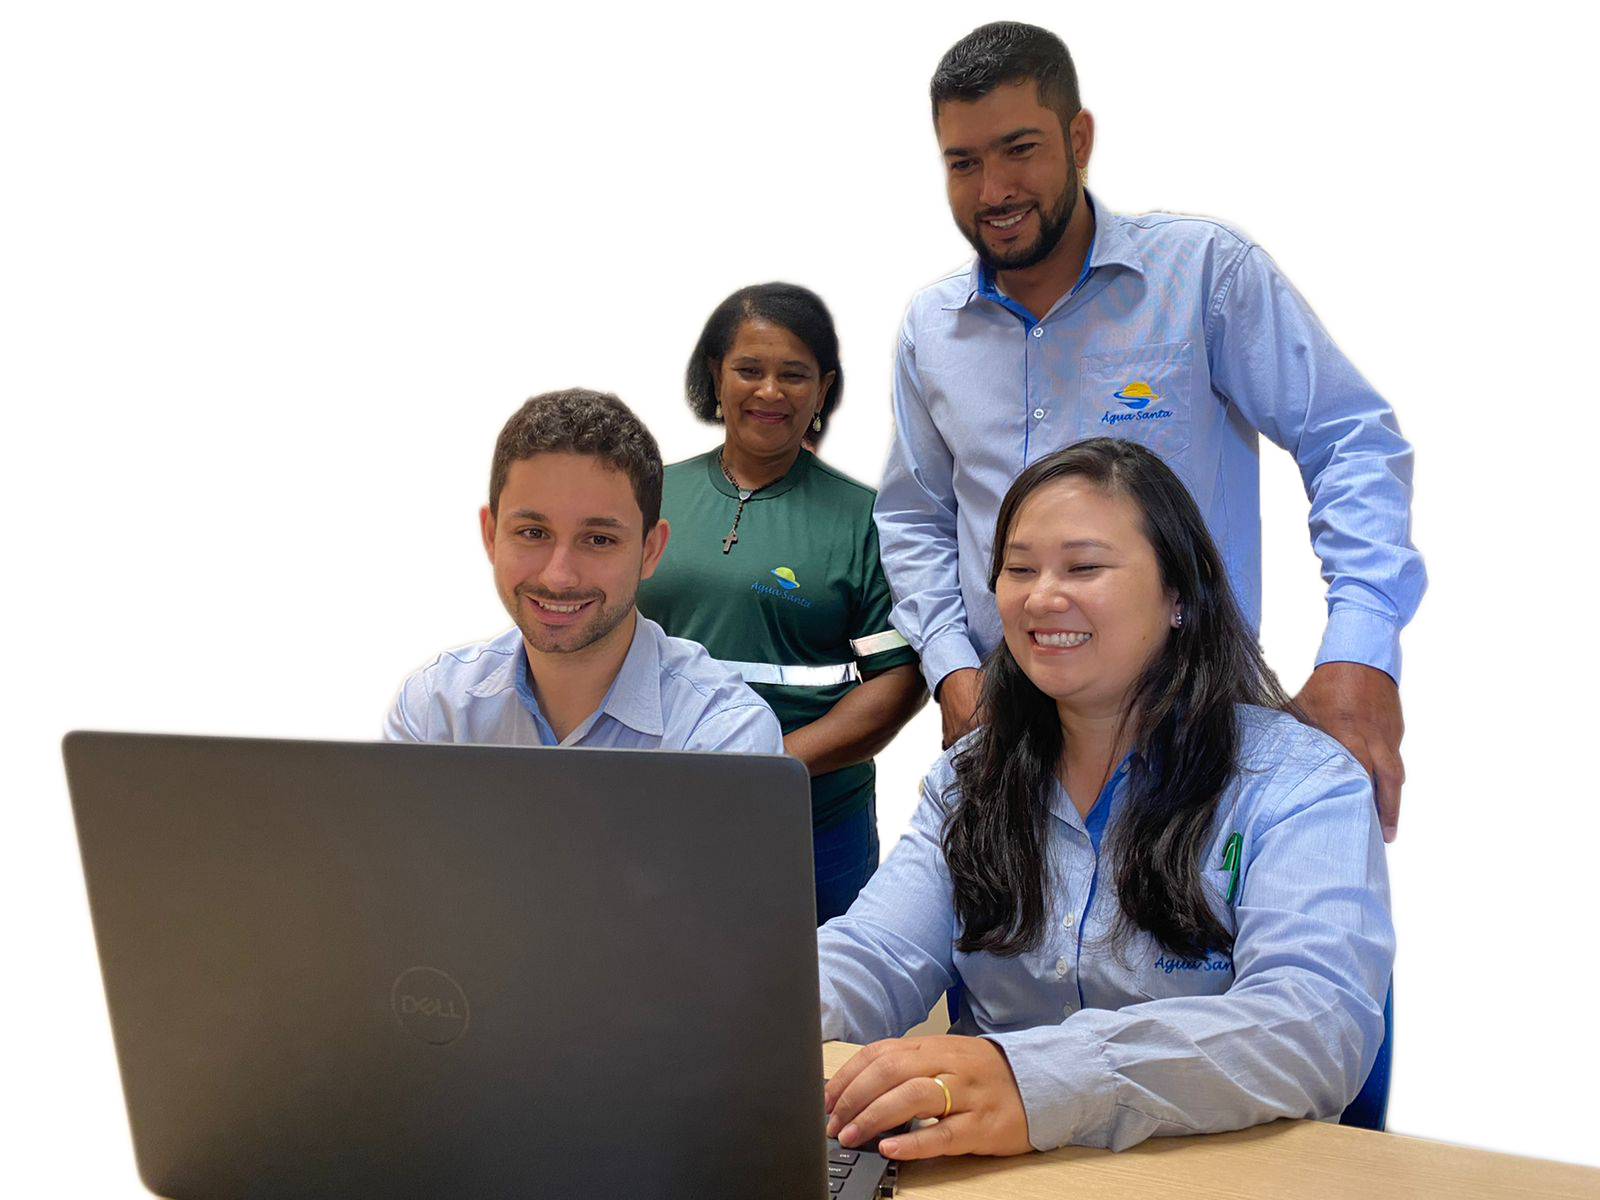
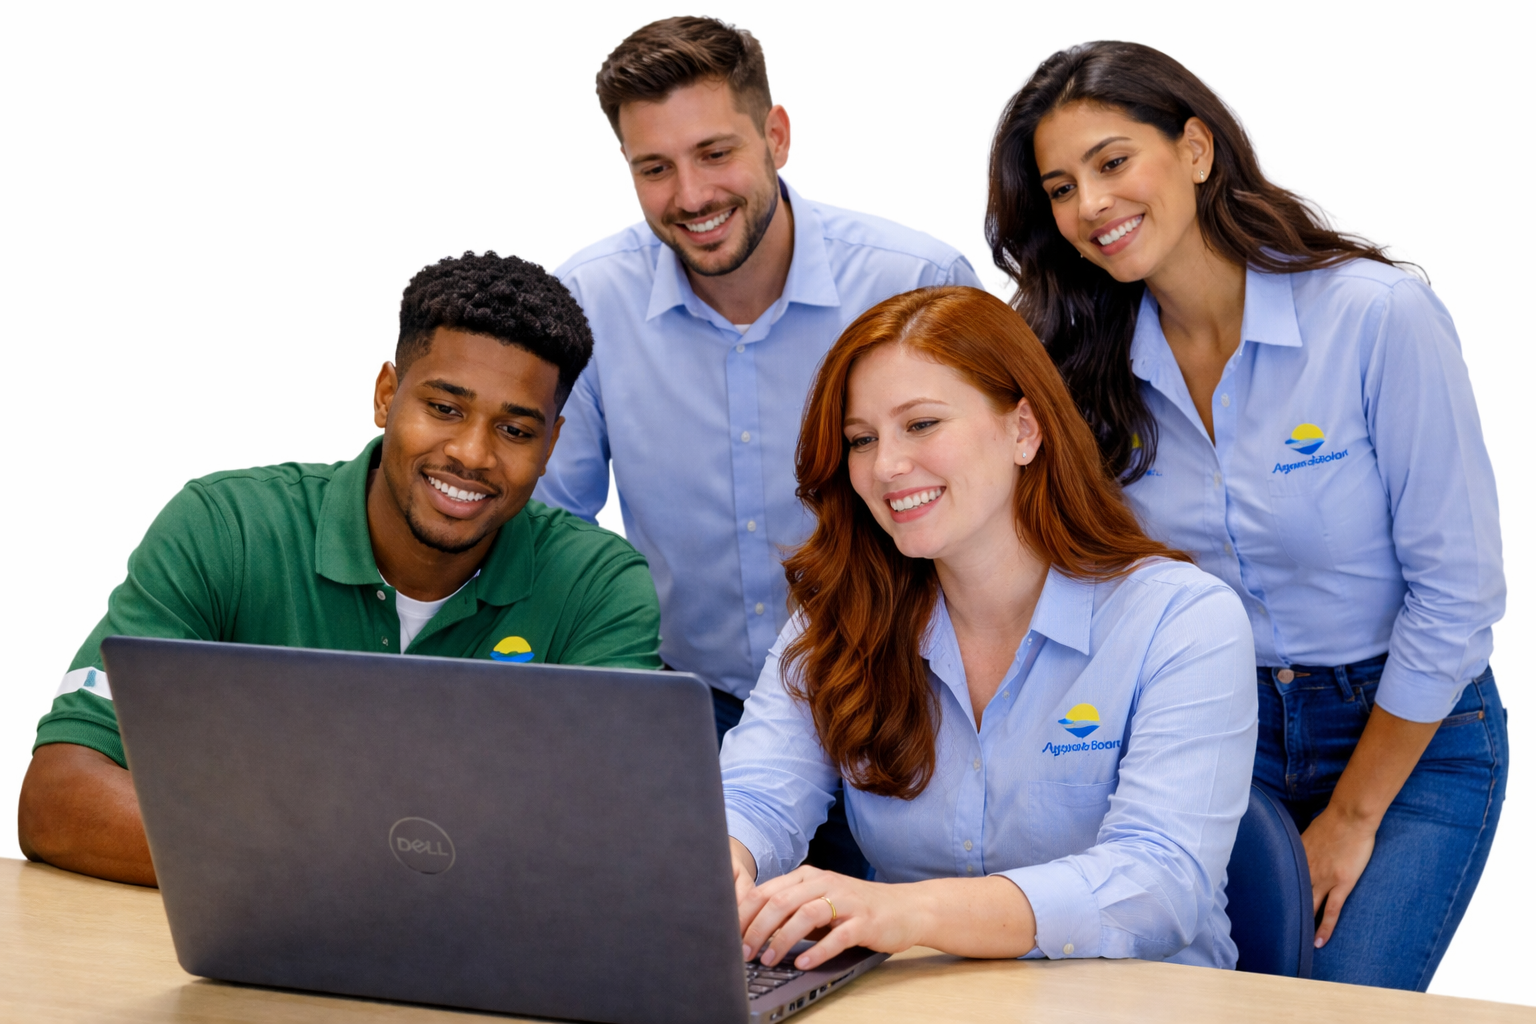
Add files via upload

diff --git a/index.html b/index.html
@@ -416,8 +416,6 @@
             </p>
             <a class="button button-primary button-circle" style="color: white;" data-wow-delay=".3s"
               onclick="window.open('curriculo.html', '_blank'); return false;">Cadastrar</a>
-            <a class="button button-primary button-circle" style="color: white;" data-wow-delay=".3s"
-              onclick="window.open('areas/areas.html', '_blank'); return false;">Carreiras</a>
           </div>
         </div>
 
